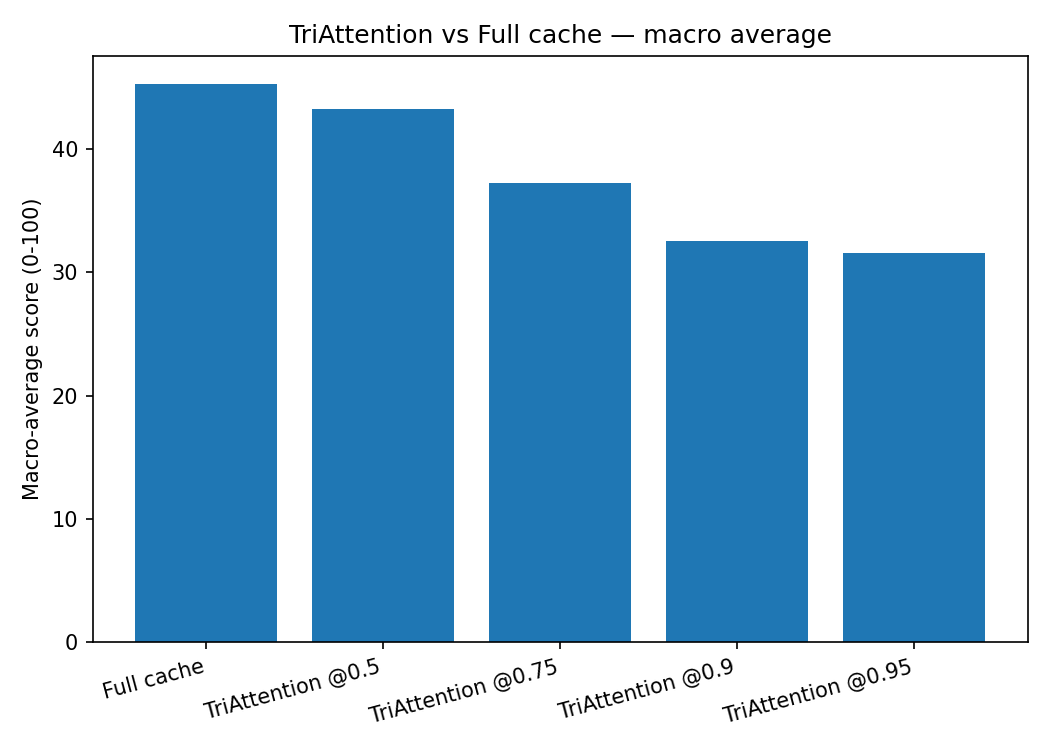
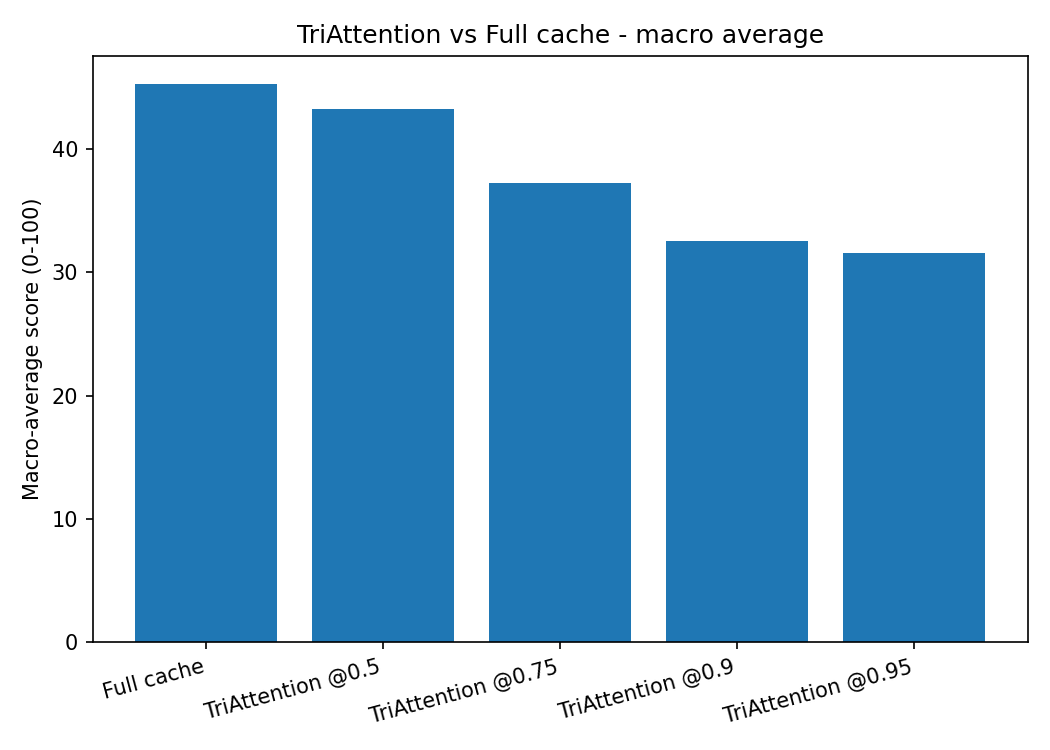
Expand TriAttention README with per-task impact and tradeoff charts

Changed region(s): [[0.2743, 0.0307, 0.7924, 0.0613]]

diff --git a/members/samruddhi/analyze_results.py b/members/samruddhi/analyze_results.py
@@ -25,7 +25,8 @@ import matplotlib.pyplot as plt
 
 HERE = Path(__file__).resolve().parent
 REPO = HERE.parents[1]
-LB_DIR = REPO / "results" / "longbench"
+# Baseline lives in the shared results folder; TriAttention runs live under results/triattention.
+LB_DIRS = [REPO / "results" / "longbench", REPO / "results" / "triattention" / "longbench"]
 OUT = HERE / "results_out"
 FIG = OUT / "figures"
 
@@ -52,10 +53,12 @@ def run_label(press, ratio):
 def load_runs():
     """Return {(press, ratio): [rows]} for the TriAttention + full-cache runs found."""
     runs = {}
-    if not LB_DIR.exists():
-        return runs
-    for jf in sorted(LB_DIR.glob("*.jsonl")):
-        rows = [json.loads(l) for l in jf.open() if l.strip()]
+    jsonls = []
+    for d in LB_DIRS:
+        if d.exists():
+            jsonls.extend(sorted(d.glob("*.jsonl")))
+    for jf in jsonls:
+        rows = [json.loads(l) for l in jf.open(encoding="utf-8") if l.strip()]
         if not rows:
             continue
         press = rows[0].get("press")
@@ -158,11 +161,55 @@ def make_plots(per_task, run_rows, labels):
     plt.figure(figsize=(7, 5))
     plt.bar([r["label"] for r in run_rows], [r["macro_avg"] for r in run_rows])
     plt.ylabel("Macro-average score (0-100)")
-    plt.title("TriAttention vs Full cache — macro average")
+    plt.title("TriAttention vs Full cache - macro average")
     plt.xticks(rotation=15, ha="right")
     plt.tight_layout()
     plt.savefig(FIG / "macro_average.png", dpi=150)
     plt.close()
+
+    # 4. Per-task delta vs full cache (at the most aggressive TriAttention run) - shows the flaw
+    tri_runs = [r for r in run_rows if r["press"] == "triattention"]
+    base_label = next((r["label"] for r in run_rows if r["press"] == "none"), None)
+    if tri_runs and base_label:
+        worst = max(tri_runs, key=lambda r: r["compression_ratio"])["label"]
+        deltas = []
+        for t in tasks:
+            b = per_task[t].get(base_label)
+            v = per_task[t].get(worst)
+            if isinstance(b, float) and isinstance(v, float):
+                deltas.append((t, v - b))
+        deltas.sort(key=lambda x: x[1])
+        names = [d[0] for d in deltas]
+        vals = [d[1] for d in deltas]
+        colors = ["#C44E52" if v < 0 else "#55A868" for v in vals]
+        plt.figure(figsize=(12, 6))
+        plt.barh(names, vals, color=colors)
+        plt.axvline(0, color="black", linewidth=0.8)
+        plt.xlabel(f"Score change vs full cache (points)  -  {worst}")
+        plt.title("Per-task impact of TriAttention: where it hurts (red) and holds up (green)")
+        plt.tight_layout()
+        plt.savefig(FIG / "per_task_delta.png", dpi=150)
+        plt.close()
+
+    # 5. Memory saved vs accuracy kept, per run (dual view of the tradeoff)
+    base = next((r for r in run_rows if r["press"] == "none"), None)
+    if base:
+        import numpy as np
+        labels_b = [r["label"] for r in run_rows]
+        acc_kept = [100 * r["macro_avg"] / base["macro_avg"] for r in run_rows]
+        mem_saved = [100 * (1 - r["mean_kv_cache_gb"] / base["mean_kv_cache_gb"]) for r in run_rows]
+        xb = np.arange(len(labels_b))
+        w = 0.38
+        plt.figure(figsize=(10, 5))
+        plt.bar(xb - w / 2, acc_kept, w, label="Accuracy kept (% of full)", color="#4C72B0")
+        plt.bar(xb + w / 2, mem_saved, w, label="KV memory saved (% vs full)", color="#DD8452")
+        plt.xticks(xb, labels_b, rotation=15, ha="right")
+        plt.ylabel("Percent")
+        plt.title("The tradeoff: memory saved vs accuracy kept")
+        plt.legend()
+        plt.tight_layout()
+        plt.savefig(FIG / "tradeoff.png", dpi=150)
+        plt.close()
 
 
 def make_animations(per_task, run_rows, labels):

diff --git a/members/samruddhi/README.md b/members/samruddhi/README.md
@@ -1,104 +1,136 @@
 # TriAttention on LongBench
 
-KV-cache compression with **TriAttention** (Mao et al., ICML 2026, [arXiv:2604.04921](https://arxiv.org/abs/2604.04921);
-repo [WeianMao/triattention](https://github.com/WeianMao/triattention)), evaluated on **LongBench v1**
-with **Llama-3.1-8B-Instruct** (bf16) on an RTX 5090.
+A study of the **TriAttention** KV-cache compression method: how much GPU memory it saves, how much
+accuracy it costs, and where it breaks. Evaluated on **LongBench v1** with **Llama-3.1-8B-Instruct**
+(bf16) on an RTX 5090.
 
-TriAttention shrinks the KV cache by scoring each cached key with a frequency-domain trigonometric
-series built from **precomputed per-head query statistics**. It inverts RoPE on the cached keys,
-combines them with the calibrated per-head query centers and magnitudes, and keeps the highest-scoring
-tokens plus a recent window and the initial sink tokens. It is implemented as a kvpress `ScorerPress`
-and runs through the team's shared harness against the full-cache baseline on the same prompts and metrics.
+- Method: TriAttention (Mao et al., ICML 2026, [arXiv:2604.04921](https://arxiv.org/abs/2604.04921);
+  repo [WeianMao/triattention](https://github.com/WeianMao/triattention))
+- Benchmark: LongBench v1, all 16 English tasks
+- Baseline: full KV cache (no compression)
 
-## Faithful to the method
+---
 
-The scoring is the authors' exact algorithm (`triattention/methods/pruning_utils.py`), driven by
-statistics from the authors' calibration procedure, reproduced in `calibrate_triattention.py`:
-a single forward pass on plain text captures each layer's query states, inverts RoPE, forms
-`head_dim/2` complex frequency pairs, and stores per head the complex query mean and mean magnitude
-(`calibration/llama31_8b_stats.pt`, 1024 heads).
+## 1. The problem, in one paragraph
 
-This matters for finding real flaws. An earlier version estimated the query center online instead of
-calibrating it, which both **invented flaws that do not exist** (it reported hotpotqa collapsing to
-16.7 at @0.5, where the calibrated method scores **91.7**) and exaggerated the real ones. The results
-below use the calibrated statistics, so the weaknesses are TriAttention's own.
+When a language model reads a long document, it stores a key and a value for every token it has seen.
+This "KV cache" grows with the input and eats GPU memory. **Compression** methods shrink it by throwing
+away or shrinking the least useful entries. The question is always the same tradeoff: how much memory
+can you save before the answers get worse? This repo measures that tradeoff for TriAttention.
 
-## Headline result
+## 2. How TriAttention decides what to keep
 
-Halving the KV cache costs ~2 points; past that, accuracy falls steadily as the cache shrinks toward
-13× smaller.
+Most methods rank cached tokens by the attention they received from a few recent queries. TriAttention
+does something different: it scores each key with a **frequency-domain trigonometric series** built from
+**precomputed per-head query statistics**. In plain terms, it learns (once, offline) where each
+attention head's queries tend to point, then keeps the keys that are expected to attract the most
+attention over future positions. It always keeps the most recent tokens and the first few "sink" tokens.
 
-| Run | Macro avg | Mean KV cache (GB) |
-|---|---|---|
-| Full cache | 45.24 | 0.4654 |
-| TriAttention @0.5 | 43.18 | 0.2396 |
-| TriAttention @0.75 | 37.23 | 0.1267 |
-| TriAttention @0.9 | 32.54 | 0.0589 |
-| TriAttention @0.95 | 31.50 | 0.0364 |
+Those offline statistics come from a one-time **calibration** pass (reproduced in
+`calibrate_triattention.py`). This repo runs the authors' exact scoring on those stats, so the results
+reflect TriAttention as designed.
+
+## 3. The headline tradeoff
+
+Halving the cache costs about 2 points of accuracy. Pushing further trades accuracy for memory down a
+smooth curve, reaching a 13x smaller cache at ~31/45 accuracy.
 
 ![Accuracy vs KV-cache memory](results_out/figures/score_vs_kv_cache.png)
 
+Watching the same tradeoff as an animation (the point walks from full cache down to the smallest cache):
+
 ![Accuracy vs memory, animated](results_out/figures/accuracy_vs_memory.gif)
 
-## Per-task behaviour
+Memory saved versus accuracy kept, side by side:
 
-QA tasks collapse as the budget shrinks; code, few-shot, and summarization hold up far better.
+![The tradeoff](results_out/figures/tradeoff.png)
+
+| Run | Macro avg (0-100) | Mean KV cache (GB) | Accuracy kept | Memory saved |
+|---|---|---|---|---|
+| Full cache | 45.24 | 0.465 | 100% | 0% |
+| TriAttention @0.5 | 43.18 | 0.240 | 95% | 48% |
+| TriAttention @0.75 | 37.23 | 0.127 | 82% | 73% |
+| TriAttention @0.9 | 32.54 | 0.059 | 72% | 87% |
+| TriAttention @0.95 | 31.50 | 0.036 | 70% | 92% |
+
+## 4. Where it breaks (the flaw)
+
+Not all tasks suffer equally. This chart shows, at the most aggressive setting, how much each task
+changed versus the full cache. Red = worse, green = better:
+
+![Per-task impact](results_out/figures/per_task_delta.png)
+
+The pattern is clear: **question-answering collapses** (multifieldqa_en, 2wikimqa, qasper) while
+**code, few-shot, and summarization hold up** — triviaqa even improves.
+
+Per-task scores at every compression level:
 
 ![Per-task scores](results_out/figures/per_task_scores.png)
 
-The same per-task scores, one frame per compression level from full cache to the most aggressive budget:
+The same scores as an animation, one frame per compression level from full cache to the smallest cache:
 
 ![Per-task sweep, animated](results_out/figures/per_task_sweep.gif)
 
 ![Macro average per run](results_out/figures/macro_average.png)
 
-## The flaw
+**Why QA breaks.** QA answers depend on a few specific evidence tokens scattered through a long
+document. TriAttention scores a key by expected attention over query *distance and geometry*, not by the
+actual question being asked — so isolated evidence tokens that matter for one specific question score low
+and get evicted. Tasks with redundant or structured signal (code, few-shot, summarization) survive
+because their information is spread across many tokens, so dropping some is cheap. That is the concrete
+lever to improve: make the score sensitive to the question/evidence, not only the calibrated query
+geometry.
 
-TriAttention's biggest weakness is **question-answering** — at @0.95, multifieldqa_en drops 58.4 → 19.2,
-2wikimqa 52.7 → 17.2, qasper 40.9 → 16.8. These tasks need a few specific evidence tokens scattered in
-a long document. The frequency-domain score ranks a key by expected attention averaged over query
-distances using the calibrated query geometry — it is not sensitive to the specific question — so
-isolated evidence tokens score low and get evicted. Tasks with redundant or structurally regular signal
-(code, few-shot, summarization) survive because the information is spread across many tokens.
+Category-level damage at @0.95 (mean change vs full cache): Single-Doc QA -31.6, Multi-Doc QA -21.9,
+Summarization -8.8, Code -7.4, Few-shot -5.5.
 
-Category-level damage at @0.95 (mean Δ vs full cache): Single-Doc QA −31.6, Multi-Doc QA −21.9,
-Summarization −8.8, Code −7.4, Few-shot −5.5.
+## 5. Why these numbers can be trusted
 
-Full per-task tables are in `RESULTS.md`; the measured flaw breakdown and root cause are in `FLAWS.md`.
+An earlier version of this press *estimated* the query statistics on the fly instead of calibrating
+them. That shortcut both **invented flaws that do not exist** (it reported hotpotqa collapsing to 16.7
+at @0.5, where the calibrated method actually scores **91.7**) and **exaggerated the real ones**. Running
+the authors' calibration fixed this, so the weaknesses above are TriAttention's own, not an artifact of a
+shortcut.
 
-## Files
+| | Query stats | hotpotqa @0.5 | Macro @0.95 | Flaws trustworthy? |
+|---|---|---|---|---|
+| Earlier version | online estimate | 16.7 (wrong) | 26.9 | no |
+| This version | authors' calibration | 91.7 | 31.5 | yes |
 
-**Code**
-- `triattention_press.py` — TriAttention as a kvpress `ScorerPress` (RoPE inversion + trigonometric
-  scoring over calibrated stats; attention-sink + recent-window protection)
-- `calibrate_triattention.py` — reproduces the authors' calibration → `calibration/llama31_8b_stats.pt`
-- `build_dev_data.py` — builds the LongBench dev set → `data/processed_longbench/processed_longbench_dev.jsonl`
-- `run_all.py` — runs the full-cache baseline + the TriAttention compression sweep, then the analysis
-- `analyze_results.py` — turns run outputs into CSVs, figures, GIFs, and `RESULTS.md`
-- `write_flaws.py` — derives `FLAWS.md` from the measured scores
-- `selftest_triattention.py` — plumbing check on a small open model
+## 6. What's in this folder
+
+**Pipeline (run in this order)**
+
+| Step | File | What it does |
+|---|---|---|
+| 1. Data | `build_dev_data.py` | Builds the LongBench dev set -> `data/processed_longbench/processed_longbench_dev.jsonl` |
+| 2. Calibrate | `calibrate_triattention.py` | Reproduces the authors' calibration -> `calibration/llama31_8b_stats.pt` |
+| 3. Method | `triattention_press.py` | TriAttention as a kvpress `ScorerPress` (RoPE inversion + trig scoring over the stats) |
+| 4. Run + report | `run_all.py` | Runs the baseline + the TriAttention sweep, then the analysis |
+| - Analysis | `analyze_results.py` | Builds the CSVs, charts, GIFs, and `RESULTS.md` |
+| - Flaws | `write_flaws.py` | Derives `FLAWS.md` from the measured scores |
+| - Check | `selftest_triattention.py` | Quick plumbing check on a small open model |
 
 **Outputs** (`results_out/`)
-- `per_record.csv` — every record: task, score, latency, KV-cache size
-- `per_task_summary.csv` — mean score per task per run
-- `run_summary.csv` — macro average, mean KV cache, mean latency per run
-- `run_log.txt` — full harness output
-- `figures/` — `per_task_scores.png`, `score_vs_kv_cache.png`, `macro_average.png`,
-  `per_task_sweep.gif`, `accuracy_vs_memory.gif`
-- `longbench/` — the TriAttention per-ratio run files (predictions + summaries)
+- `per_record.csv` - every record: task, score, latency, KV-cache size
+- `per_task_summary.csv` - mean score per task per run
+- `run_summary.csv` - macro average, mean KV cache, mean latency per run
+- `run_log.txt` - full harness output
+- `figures/` - `score_vs_kv_cache.png`, `tradeoff.png`, `per_task_delta.png`, `per_task_scores.png`,
+  `macro_average.png`, `accuracy_vs_memory.gif`, `per_task_sweep.gif`
+- `longbench/` is kept at the repo level under `results/triattention/longbench/` (per-ratio run files)
 
 **Documents**
-- `RESULTS.md` — full results tables and figures
-- `FLAWS.md` — TriAttention's weaknesses and root cause, computed from the measured scores
+- `RESULTS.md` - full results tables and figures
+- `FLAWS.md` - the measured flaws and their root cause
 
-## Setup notes
+## 7. Notes on scope
 
-- Runs cover the LongBench dev prompts under 6K tokens (260 records per run, all 16 tasks); longer
-  prompts exceed the 32 GB GPU during the uncompressed prefill.
-- Calibration uses a 4096-token plain-text pass; the authors note the statistics are domain-agnostic
-  and robust to the calibration text.
+- Runs cover the LongBench dev prompts under 6K tokens (260 records per run, all 16 tasks). Longer
+  prompts exceed the 32 GB GPU during the uncompressed prefill, so the longest documents are not included.
+- Calibration uses a 4096-token plain-text pass; the authors note the statistics are domain-agnostic.
 
-## Reproduce
+## 8. Reproduce
 
 ```powershell
 huggingface-cli login
